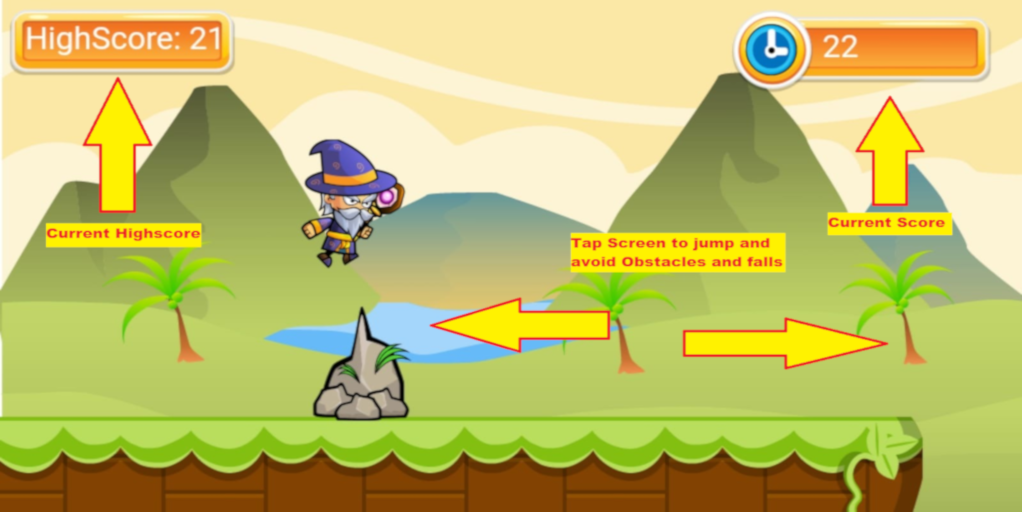
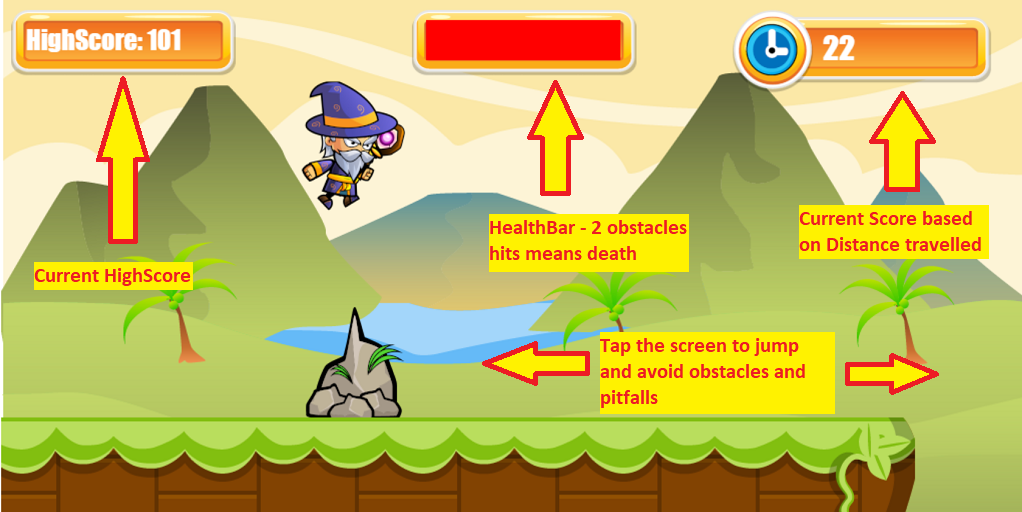
Added health bar and changed tutorial screen.

diff --git a/app/src/main/assets/myscript.js b/app/src/main/assets/myscript.js
@@ -19,6 +19,7 @@ var gameElements = [];
 var highScore = 0;
 var retrievedScore;
 var tutButton;
+var hit = 3;
 
 //declare the object and image variables
 var player,
@@ -35,7 +36,8 @@ var player,
     playButtonImage,
     replayButtonImage,
     highscoreBar,
-    tutorialScreen;
+    tutorialScreen,
+    healthBar;
 
 //the load function is the first function called and gets the canvas and the canvas context and also starts the game music
 function load() {
@@ -159,36 +161,52 @@ function init(){
         thisImage: obstacle1Image,
         x: 1200,
         y: 306,
-        startx: 1200
+        startx: 1200,
+        collider: true
     };
 
     obstacle2 = {
         thisImage: obstacle2Image,
         x: 2400,
         y: 300,
-        startx: 2400
+        startx: 2400,
+        collider: true
     };
 
     obstacle3 = {
         thisImage: obstacle3Image,
         x: 3200,
         y: 280,
-        startx: 3200
+        startx: 3200,
+        collider: true
     };
 
     obstacle4 = {
         thisImage: obstacle2Image,
         x: 4400,
         y: 300,
-        startx: 4400
+        startx: 4400,
+        collider: true
     };
 
     obstacle5 = {
         thisImage: obstacle3Image,
         x: 5600,
         y: 280,
-        startx: 5600
+        startx: 5600,
+        collider: true
     };
+
+    healthBar = {
+        thisImage: highscoreBar,
+        width:194,
+        height:40,
+        x:canvas.width/2-86,
+        y:20,
+        startW:194
+    };
+
+
 
     //create game objects arrays
     obstacles = [obstacle1,obstacle2,obstacle3,obstacle4,obstacle5];
@@ -246,6 +264,14 @@ function gameLoop() {
             context.drawImage(highscoreBar, 10, 10);
             styleText('#ffffff', '26px impact', 'left', 'middle');
             context.fillText("HighScore: " + highScore, 25, 40);
+
+            //Draw the players healthbar
+            context.drawImage(healthBar.thisImage, canvas.width/2-100, 10);
+            context.beginPath();
+            context.lineWidth = "6";
+            context.fillStyle = "red";
+            context.rect(healthBar.x, healthBar.y, healthBar.width, healthBar.height);
+            context.fill();
             
             //updates the score and rounds the number to create an int
             score = score + 0.1;
@@ -324,8 +350,11 @@ function gameLoop() {
 function resetGameElements(array)
 {
    player.y = 270;
+   healthBar.width = healthBar.startW;
+   hit = 3;
    array.forEach(function(element){       
-       element.x = element.startx;       
+       element.x = element.startx;
+       element.collider = true;
     }); 
 }
 
@@ -378,10 +407,17 @@ function resetGameElements(array)
     }
 
     obstacles.forEach(function(element){
-        if(obstacleColCheck(element,element.thisImage))
-        {            
+        if(obstacleColCheck(element,element.thisImage) && element.collider == true)
+        {
+            hit--;
             if (soundMgr != null) soundMgr.playSoundEffect("death.mp3");
-            state = GameStates.GAMEOVER;
+            if(hit == 2)
+            {
+                healthBar.width = healthBar.width/2;
+                element.collider = false;
+            }
+            else if(hit == 1)
+                state = GameStates.GAMEOVER;
         }
     });
  }
